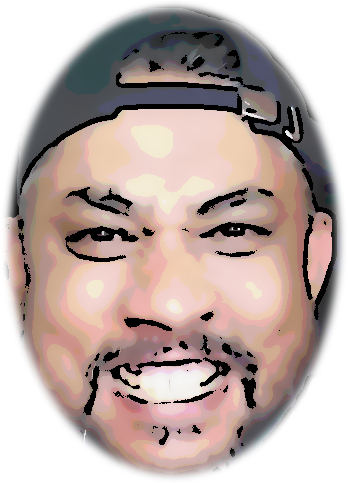
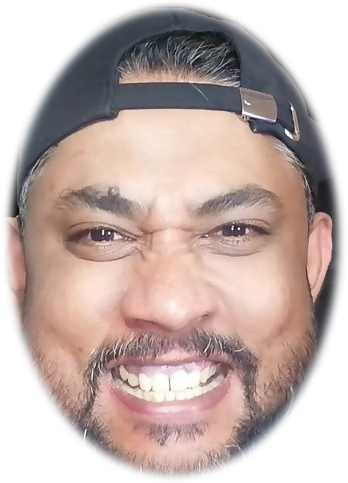
Keepy Uppy: realistic face photo curved onto the head
Claude-Session: https://claude.ai/code/session_012S395mFvW1PimfcGNrQPir

diff --git a/keepy-uppy/index.html b/keepy-uppy/index.html
@@ -97,8 +97,16 @@
   add(body, new THREE.SphereGeometry(0.33, 20, 12, 0, Math.PI * 2, 0, Math.PI / 2.4), hair, 0, 2.3, -0.02);
   // face photo on the front of the head (cap and beard are in the photo)
   var faceTex = new THREE.TextureLoader().load('face.png');
-  var faceMesh = new THREE.Mesh(new THREE.PlaneGeometry(0.62, 0.86), new THREE.MeshStandardMaterial({ map: faceTex, transparent: true, alphaTest: 0.05, roughness: 0.8 }));
-  faceMesh.position.set(0, 2.22, 0.335);
+  // curve the face plane to follow the head so it reads as a face, not a sticker
+  var faceGeo = new THREE.PlaneGeometry(0.62, 0.86, 16, 20), fp = faceGeo.attributes.position;
+  for (var vi = 0; vi < fp.count; vi++) {
+    var fx = fp.getX(vi), fy = fp.getY(vi), rr = 0.33;
+    var fz = Math.sqrt(Math.max(0, rr * rr - fx * fx * 0.8 - fy * fy * 0.6));
+    fp.setZ(vi, fz - 0.2);
+  }
+  faceGeo.computeVertexNormals();
+  var faceMesh = new THREE.Mesh(faceGeo, new THREE.MeshStandardMaterial({ map: faceTex, transparent: true, alphaTest: 0.05, roughness: 0.8 }));
+  faceMesh.position.set(0, 2.22, 0.2);
   body.add(faceMesh);
   // shorts
   add(body, new THREE.CylinderGeometry(0.42, 0.4, 0.45, 24), shorts, 0, 0.8, 0);
